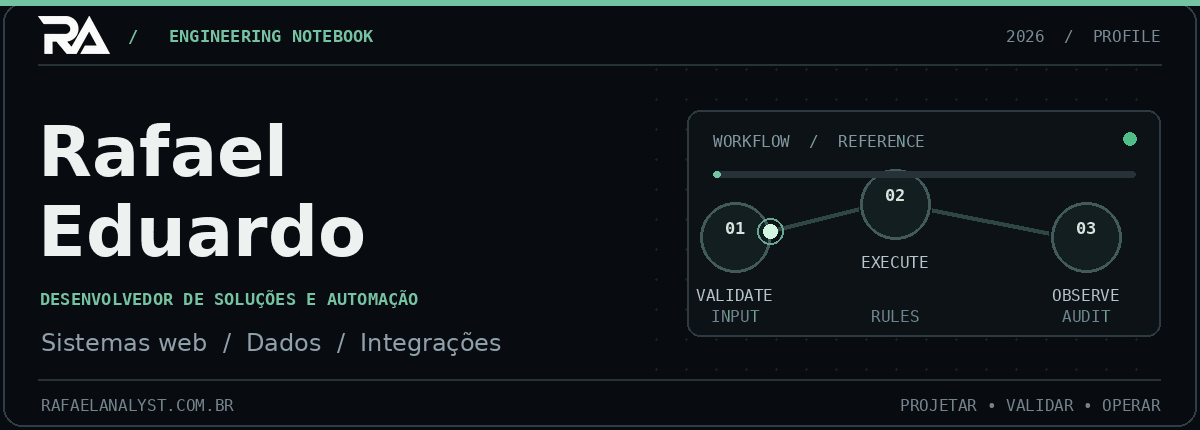
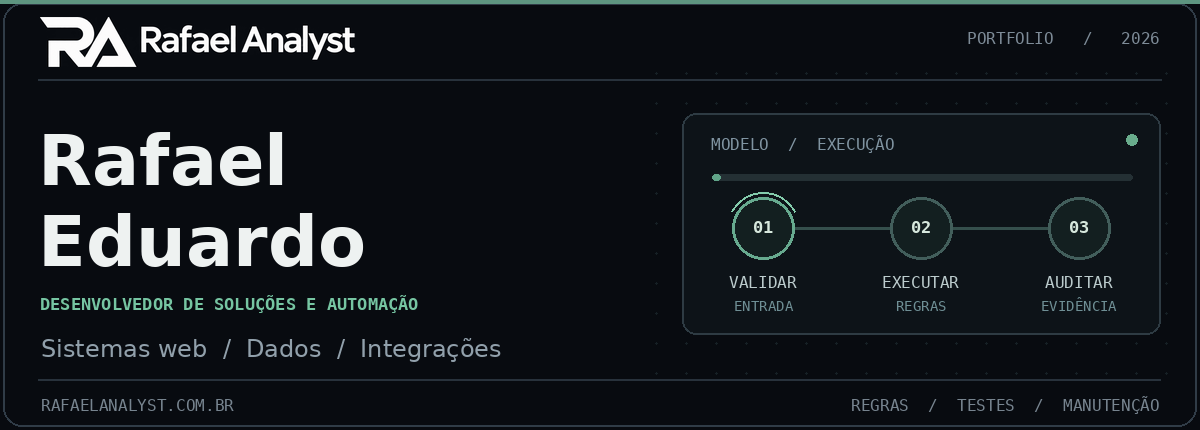
fix(profile): refine header navigation and workflow alignment

diff --git a/scripts/generate_visuals.py b/scripts/generate_visuals.py
@@ -85,24 +85,26 @@ architecture = f'''<svg xmlns="http://www.w3.org/2000/svg" width="1200" height="
  </svg>'''
 write(ASSETS/'architecture.svg', architecture)
 
-# GIF animation is used intentionally: it is image-only, self-hosted, no JavaScript
-# execution and does not depend on third-party stat/image services.
+# GIF animation is used intentionally: image-only, self-hosted, no scripts.
+# Geometry is symmetric, with aligned labels and no moving white/orbiting dot.
 W, H = 1200, 430
-FPS = 58
+FRAME_COUNT = 48
+
+
 def pick_font(variants: tuple[str, ...]) -> str:
-    # Keep regeneration possible on Linux, Windows and macOS without bundling font files.
-    search_roots = (
+    roots = (
         Path('/usr/share/fonts/truetype/dejavu'),
         Path('/usr/share/fonts/truetype/liberation2'),
         Path(os.getenv('WINDIR', 'C:/Windows')) / 'Fonts',
         Path('/System/Library/Fonts'),
     )
-    for root in search_roots:
+    for root in roots:
         for name in variants:
             candidate = root / name
             if candidate.is_file():
                 return str(candidate)
-    raise RuntimeError('Fonte de sistema nao encontrada. Ajuste pick_font para uma fonte instalada.')
+    raise RuntimeError('Fonte de sistema nao encontrada; ajuste pick_font.')
+
 
 font_reg = pick_font(('DejaVuSans.ttf', 'Arial.ttf', 'arial.ttf', 'Helvetica.ttc'))
 font_bold = pick_font(('DejaVuSans-Bold.ttf', 'Arialbd.ttf', 'arialbd.ttf', 'Helvetica.ttc'))
@@ -113,82 +115,93 @@ NAME = F(font_bold, 70)
 LABEL = F(font_mono_b, 17)
 SUB = F(font_reg, 24)
 SMALL = F(font_mono, 16)
-CARD = F(font_mono_b, 17)
-GREEN_RGB = (118,197,162)
+STEP_NUMBER = F(font_mono_b, 17)
+STEP_LABEL = F(font_mono, 16)
+STEP_META = F(font_mono, 14)
+GREEN_RGB = (118, 197, 162)
+BG_RGB = (8, 11, 16)
 
-
-# Monogram extracted from the exact original PNG supplied by the author.
-# No vectorization/redrawing; the original horizontal lockup remains byte-identical.
+# The source PNG is copied verbatim to /brand. Cropping whitespace and resizing
+# for the header does not alter the actual brand file or redraw its symbol.
 ORIGINAL_LOGO = ASSETS / 'brand' / 'rafael-analyst-oficial.png'
 if not ORIGINAL_LOGO.is_file():
     raise FileNotFoundError(f'Logomarca oficial ausente: {ORIGINAL_LOGO}')
-_official = Image.open(ORIGINAL_LOGO).convert('RGB')
-_mark_region = _official.crop((0, 0, min(309, _official.width), _official.height))
-# Preserve white/antialiased strokes and mask only the dark background.
-_mask = _mark_region.convert('L').point(lambda v: 255 if v >= 80 else 0)
-_bbox = _mask.getbbox()
+_logo = Image.open(ORIGINAL_LOGO).convert('RGB')
+_bright = _logo.convert('L').point(lambda value: 255 if value >= 90 else 0)
+_bbox = _bright.getbbox()
 if not _bbox:
-    raise RuntimeError('Nao foi possivel localizar o monograma oficial')
-_mark_region = _mark_region.crop(_bbox)
-_scale = min(72 / _mark_region.width, 44 / _mark_region.height)
-MONOGRAM = _mark_region.resize(
-    (round(_mark_region.width * _scale), round(_mark_region.height * _scale)),
+    raise RuntimeError('Nao foi possivel localizar a marca oficial')
+_logo_crop = _logo.crop(_bbox)
+_logo_width = 315
+OFFICIAL_LOCKUP = _logo_crop.resize(
+    (_logo_width, round(_logo_crop.height * _logo_width / _logo_crop.width)),
     Image.Resampling.LANCZOS,
 )
 
-# Draw shapes at native size with 16-color palette to keep animation compact.
-frames = []
-for frame in range(FPS):
-    im = Image.new('RGB', (W,H), (8,11,15))
-    d = ImageDraw.Draw(im)
-    d.rounded_rectangle((3,3,W-4,H-4),radius=19,outline=(48,60,71),width=2)
-    d.rectangle((0,0,W,5),fill=(118,197,162))
-    # Subtle technical dotted canvas on the right, quiet around type.
-    for gy in range(68,385,30):
-        for gx in range(655,1150,30):
-            d.ellipse((gx,gy,gx+2,gy+2), fill=(22,32,37))
-    im.paste(MONOGRAM, (38, 13 + (44 - MONOGRAM.height)//2))
-    d.text((128,26), '/   ENGINEERING NOTEBOOK',font=LABEL,fill=(118,197,162))
-    d.text((1160,27), '2026  /  PROFILE',font=SMALL,fill=(125,139,151),anchor='ra')
-    d.line((38,64,1161,64),fill=(40,50,60),width=2)
-    d.text((38,111), 'Rafael',font=NAME,fill=(238,242,241))
-    d.text((38,191), 'Eduardo',font=NAME,fill=(238,242,241))
-    d.text((40,289), 'DESENVOLVEDOR DE SOLUÇÕES E AUTOMAÇÃO',font=LABEL,fill=GREEN_RGB)
-    d.text((41,328), 'Sistemas web  /  Dados  /  Integrações',font=SUB,fill=(145,160,171))
-    d.line((38,379,1160,379),fill=(40,50,60),width=2)
-    d.text((41,396), 'RAFAELANALYST.COM.BR',font=SMALL,fill=(119,132,143))
-    d.text((1160,396), 'PROJETAR • VALIDAR • OPERAR',font=SMALL,fill=(119,132,143),anchor='ra')
-    # Schematic panel on the right.
-    d.rounded_rectangle((687,110,1160,336),radius=13,fill=(13,19,24),outline=(46,59,67),width=2)
-    d.text((713,132),'WORKFLOW  /  REFERENCE',font=SMALL,fill=(128,148,161))
-    xys = [(735,237),(895,204),(1086,237)]
-    lab = ['VALIDATE','EXECUTE','OBSERVE']
-    status = ['INPUT','RULES','AUDIT']
-    for i,((x,y),l,st) in enumerate(zip(xys,lab,status)):
-        rr=35
-        d.ellipse((x-rr,y-rr,x+rr,y+rr),fill=(19,31,32),outline=(65,93,90),width=3)
-        d.text((x,y-9),f'0{i+1}',font=CARD,fill=(214,231,220),anchor='mm')
-        d.text((x,y+58),l,font=SMALL,fill=(185,198,205),anchor='mm')
-        d.text((x,316),st,font=SMALL,fill=(107,133,145),anchor='mm')
-    d.line((770,231,858,209),fill=(46,71,68),width=5)
-    d.line((932,210,1048,233),fill=(46,71,68),width=5)
-    # A time-dependent packet flowing through two links.
-    phase = (frame / FPS) * 2
-    seg = int(phase) % 2
-    t = phase % 1
-    a,b = ((770,231),(858,209)) if seg == 0 else ((932,210),(1048,233))
-    xx=a[0]+(b[0]-a[0])*t
-    yy=a[1]+(b[1]-a[1])*t
-    d.ellipse((xx-7,yy-7,xx+7,yy+7),fill=(211,244,224))
-    d.ellipse((xx-13,yy-13,xx+13,yy+13),outline=(100,176,143),width=2)
-    # Progress strip.
-    d.rounded_rectangle((713,171,1135,177),radius=3,fill=(38,51,52))
-    d.rounded_rectangle((713,171,713+int(422*(frame+1)/FPS),177),radius=3,fill=GREEN_RGB)
-    frame_brightness = 190 + int(50*abs(math.sin(frame/FPS*math.pi*2)))
-    d.ellipse((1123,132,1136,145),fill=(80,frame_brightness,135))
-    # Palette conversion keeps upload small while preserving crisp edges.
-    frames.append(im.quantize(colors=54,method=Image.Quantize.FASTOCTREE))
 
-frames[0].save(ASSETS/'hero.gif',save_all=True,append_images=frames[1:],duration=90,loop=0,optimize=True,disposal=2)
-frames[0].convert('RGB').save(ASSETS/'hero-still.png',optimize=True)
-print('Generated:', len(PROJECTS),'cards, architecture.svg, hero.gif, hero-still.png')
+def draw_hero(frame: int) -> Image.Image:
+    im = Image.new('RGB', (W, H), BG_RGB)
+    d = ImageDraw.Draw(im)
+    d.rounded_rectangle((3, 3, W - 4, H - 4), radius=19, outline=(48, 60, 71), width=2)
+    d.rectangle((0, 0, W, 3), fill=(94, 149, 128))
+    for y in range(72, 380, 30):
+        for x in range(655, 1170, 30):
+            d.ellipse((x, y, x+2, y+2), fill=(22, 32, 37))
+
+    # Official lockup embedded as one proportionate brand element.
+    im.paste(OFFICIAL_LOCKUP, (40, 17))
+    d.text((1160, 29), 'PORTFOLIO   /   2026', font=SMALL, fill=(125, 139, 151), anchor='ra')
+    d.line((38, 79, 1161, 79), fill=(40, 50, 60), width=2)
+
+    # Main title is unchanged from the earlier approved layout.
+    d.text((38, 120), 'Rafael', font=NAME, fill=(238, 242, 241))
+    d.text((38, 201), 'Eduardo', font=NAME, fill=(238, 242, 241))
+    d.text((40, 294), 'DESENVOLVEDOR DE SOLUÇÕES E AUTOMAÇÃO', font=LABEL, fill=GREEN_RGB)
+    d.text((41, 334), 'Sistemas web  /  Dados  /  Integrações', font=SUB, fill=(145, 160, 171))
+    d.line((38, 379, 1160, 379), fill=(40, 50, 60), width=2)
+    d.text((41, 396), 'RAFAELANALYST.COM.BR', font=SMALL, fill=(119, 132, 143))
+    d.text((1160, 396), 'REGRAS  /  TESTES  /  MANUTENÇÃO', font=SMALL, fill=(119, 132, 143), anchor='ra')
+
+    # Symmetric execution model: equal spacing, one shared baseline, fixed padding.
+    left, top, right, bottom = 682, 113, 1160, 334
+    d.rounded_rectangle((left, top, right, bottom), radius=14,
+                        fill=(13, 19, 24), outline=(46, 59, 67), width=2)
+    d.text((711, 135), 'MODELO  /  EXECUÇÃO', font=SMALL, fill=(128, 148, 161))
+    d.ellipse((1126, 134, 1137, 145), fill=(105, 172, 140))
+    d.rounded_rectangle((712, 174, 1132, 180), radius=3, fill=(36, 48, 52))
+    progress = int(420 * ((frame + 1) / FRAME_COUNT))
+    d.rounded_rectangle((712, 174, 712 + max(5, progress), 180), radius=3, fill=(96, 164, 136))
+
+    xs = (763, 921, 1079)
+    cy = 228
+    r = 31
+    # Straight connectors first, then nodes. Nothing overlaps the labels.
+    for first, second in zip(xs, xs[1:]):
+        d.line((first+r, cy, second-r, cy), fill=(53, 79, 76), width=3)
+
+    labels = ('VALIDAR', 'EXECUTAR', 'AUDITAR')
+    subtitles = ('ENTRADA', 'REGRAS', 'EVIDÊNCIA')
+    active = min(2, (frame * 3) // FRAME_COUNT)
+    for idx, x in enumerate(xs):
+        selected = idx == active
+        border = (103, 170, 143) if selected else (66, 94, 91)
+        d.ellipse((x-r, cy-r, x+r, cy+r), fill=(19, 31, 32), outline=border, width=3)
+        # Subtle animated focus ring: no bright, free-floating white circle.
+        if selected:
+            d.arc((x-r-5, cy-r-5, x+r+5, cy+r+5), start=208, end=333,
+                  fill=(132, 204, 172), width=2)
+        d.text((x, cy-1), f'0{idx+1}', font=STEP_NUMBER,
+               fill=(215, 232, 221), anchor='mm')
+        d.text((x, 282), labels[idx], font=STEP_LABEL,
+               fill=(188, 204, 205), anchor='mm')
+        d.text((x, 306), subtitles[idx], font=STEP_META,
+               fill=(111, 143, 149), anchor='mm')
+    return im
+
+
+frames = [draw_hero(frame).quantize(colors=64, method=Image.Quantize.FASTOCTREE)
+          for frame in range(FRAME_COUNT)]
+frames[0].save(ASSETS/'hero.gif', save_all=True, append_images=frames[1:],
+               duration=90, loop=0, optimize=True, disposal=2)
+draw_hero(0).save(ASSETS/'hero-still.png', optimize=True)
+print('Generated:', len(PROJECTS), 'cards, architecture.svg, hero.gif, hero-still.png')

diff --git a/scripts/validate_profile.py b/scripts/validate_profile.py
@@ -42,6 +42,15 @@ def inspect(require_logo: bool) -> list[str]:
         if not (ASSETS / 'cards' / f'{slug}.svg').is_file():
             errors.append(f'Card ausente: {slug}')
 
+    if '<img src="./assets/profile/brand/rafael-analyst-oficial.png"' in content:
+        errors.append('Marca duplicada fora do hero; nao incluir banner de 520 px')
+    navigation = ('site', 'linkedin', 'contato', 'sobre', 'engenharia', 'projetos', 'tecnologias', 'bastidores')
+    for slug in navigation:
+        if f'./assets/profile/navigation/{slug}.svg' not in content:
+            errors.append(f'Navegacao visual ausente no README: {slug}')
+        if not (ASSETS / 'navigation' / f'{slug}.svg').is_file():
+            errors.append(f'Asset da navegacao ausente: {slug}')
+
     if 'https://github.com/RafaelEdrd/conversa-studio' in content:
         errors.append('Conversa Studio continua sem verificacao publica: remova o link ate validar')
 

diff --git a/README.md b/README.md
@@ -1,9 +1,9 @@
 <!--
   RAFAEL ANALYST / PROFILE
-  Version: 2.1-A (opção A: somente identidade visual)
+  Version: 2.1-A / header correction
   Design: restrained motion, strong typographic hierarchy, real project evidence.
   All project cards link to publicly accessible repositories.
-  The official original lockup is included unchanged; no remote image services.
+  The exact official logo is incorporated proportionally into the hero. No duplicate block below it.
 -->
 
 <p align="center">
@@ -13,30 +13,19 @@
   </picture>
 </p>
 
+<!-- Compact navigation: SVG labels remain clickable links, without default blue hyperlink styling. -->
 <p align="center">
-  <a href="https://rafaelanalyst.com.br" title="Rafael Analyst">
-    <img src="./assets/profile/brand/rafael-analyst-oficial.png" width="520" alt="Logomarca oficial RA Rafael Analyst, sem assinatura adicional, sobre fundo preto" />
-  </a>
+  <a href="https://rafaelanalyst.com.br" title="Site e portfólio"><img src="./assets/profile/navigation/site.svg" width="208" alt="Abrir site e portfólio" /></a>
+  <a href="https://www.linkedin.com/in/rafaeleduardo-analyst/" title="LinkedIn"><img src="./assets/profile/navigation/linkedin.svg" width="208" alt="Abrir LinkedIn" /></a>
+  <a href="mailto:contato@rafaelanalyst.com.br" title="Contato"><img src="./assets/profile/navigation/contato.svg" width="208" alt="Enviar e-mail de contato" /></a>
 </p>
 
 <p align="center">
-  <a href="https://rafaelanalyst.com.br">Site e portfólio</a>
-  &nbsp; / &nbsp;
-  <a href="https://www.linkedin.com/in/rafaeleduardo-analyst/">LinkedIn</a>
-  &nbsp; / &nbsp;
-  <a href="mailto:contato@rafaelanalyst.com.br">Contato</a>
-</p>
-
-<p align="center">
-  <a href="#sobre">01 — Sobre</a>
-  &nbsp; · &nbsp;
-  <a href="#engenharia">02 — Engenharia</a>
-  &nbsp; · &nbsp;
-  <a href="#projetos">03 — Projetos</a>
-  &nbsp; · &nbsp;
-  <a href="#tecnologias">04 — Tecnologias</a>
-  &nbsp; · &nbsp;
-  <a href="#bastidores">05 — Bastidores</a>
+  <a href="#sobre"><img src="./assets/profile/navigation/sobre.svg" width="127" alt="01 Sobre" /></a>
+  <a href="#engenharia"><img src="./assets/profile/navigation/engenharia.svg" width="127" alt="02 Engenharia" /></a>
+  <a href="#projetos"><img src="./assets/profile/navigation/projetos.svg" width="127" alt="03 Projetos" /></a>
+  <a href="#tecnologias"><img src="./assets/profile/navigation/tecnologias.svg" width="127" alt="04 Tecnologias" /></a>
+  <a href="#bastidores"><img src="./assets/profile/navigation/bastidores.svg" width="127" alt="05 Bastidores" /></a>
 </p>
 
 ---

diff --git a/docs/profile-design.md b/docs/profile-design.md
@@ -41,3 +41,8 @@ O script `publish.ps1` não executa `git add .`, não usa `push --force` e recus
 - README do perfil é público, mesmo quando há conteúdo em outras áreas privadas da conta.
 - Somente oito repositórios públicos foram verificados no momento desta versão. `conversa-studio` retornou 404 na verificação externa e deve ser acrescentado somente após confirmação de acesso público.
 - O GIF é decorativo. Toda informação essencial também aparece em texto acessível no Markdown.
+
+
+## Ajuste pontual de cabecalho
+
+Marca original preservada por SHA-256, posicionada dentro do hero. Navegacao usa SVGs estaticos clicaveis; sem JavaScript no README. O painel foi alinhado por uma grade simetrica (x=763, 921, 1079; y=228), e a animacao elimina o indicador circular branco para evitar sobreposicoes.
